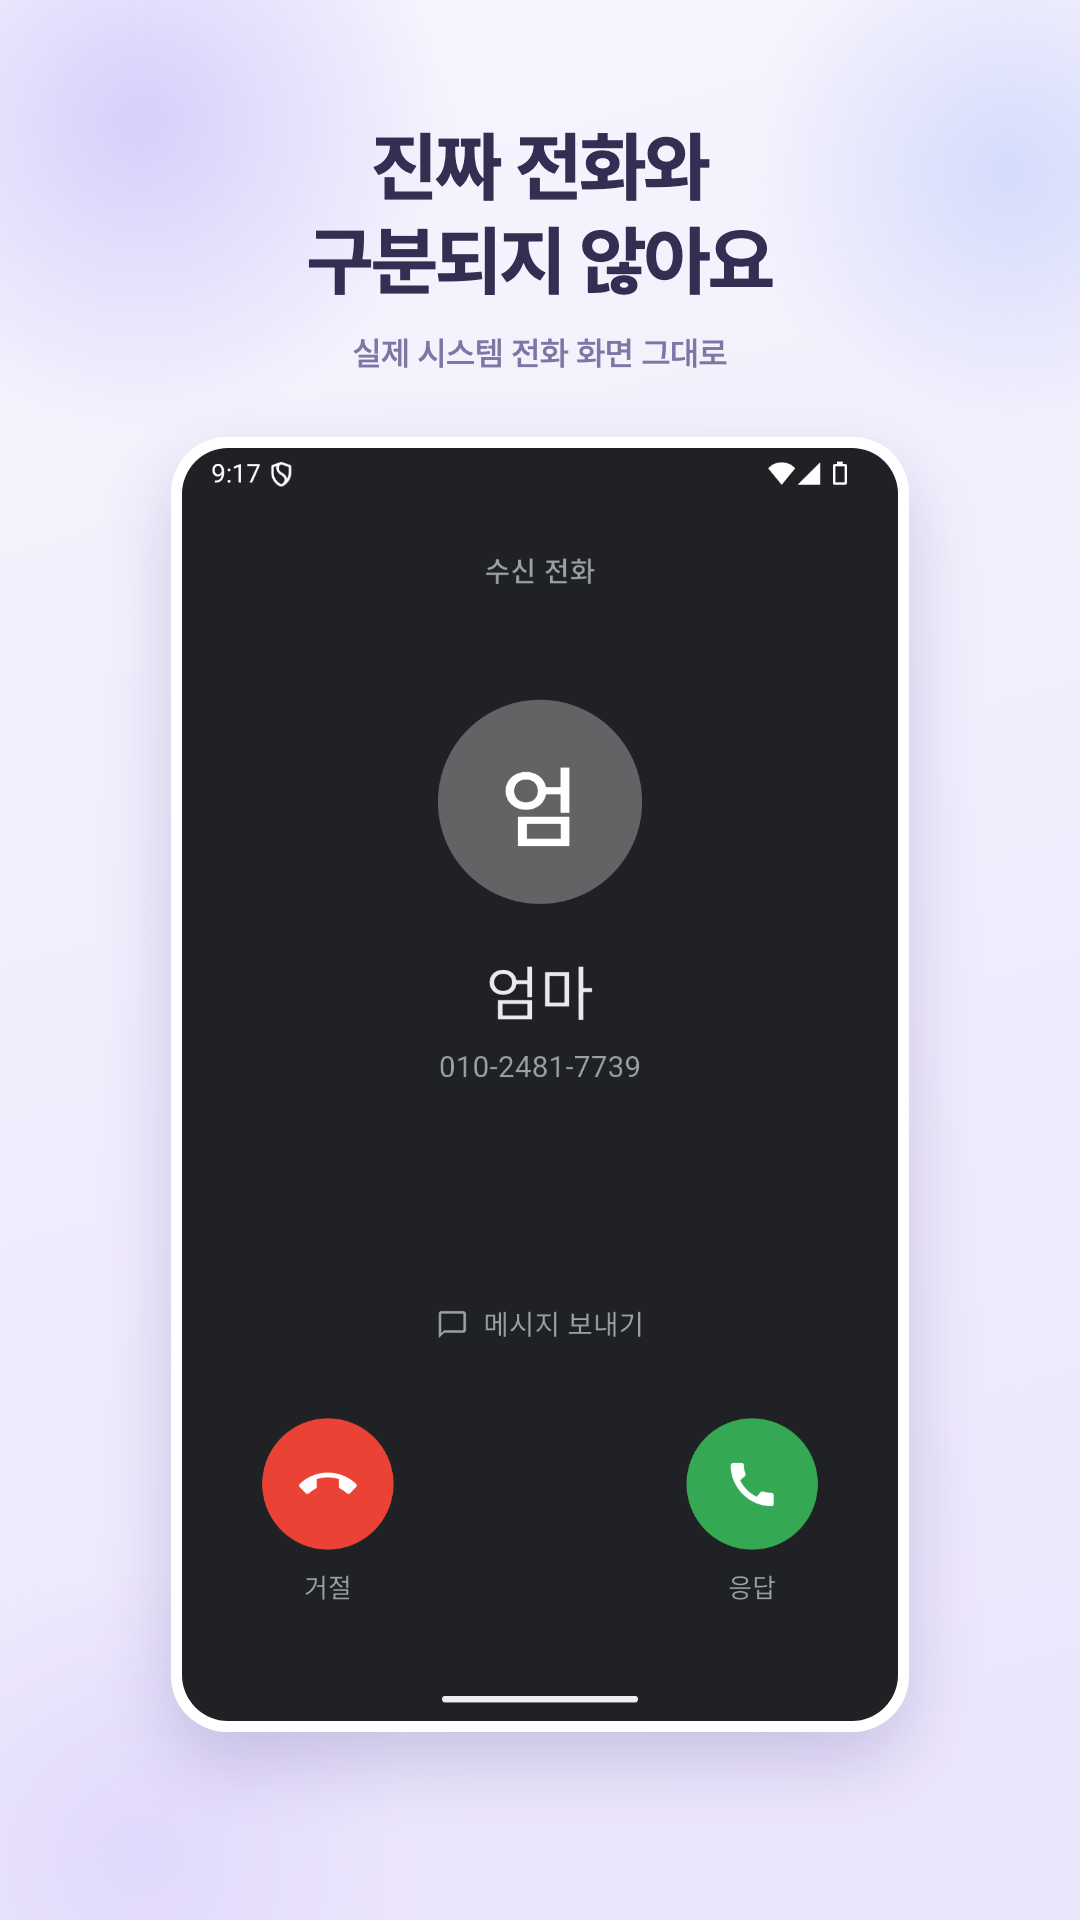
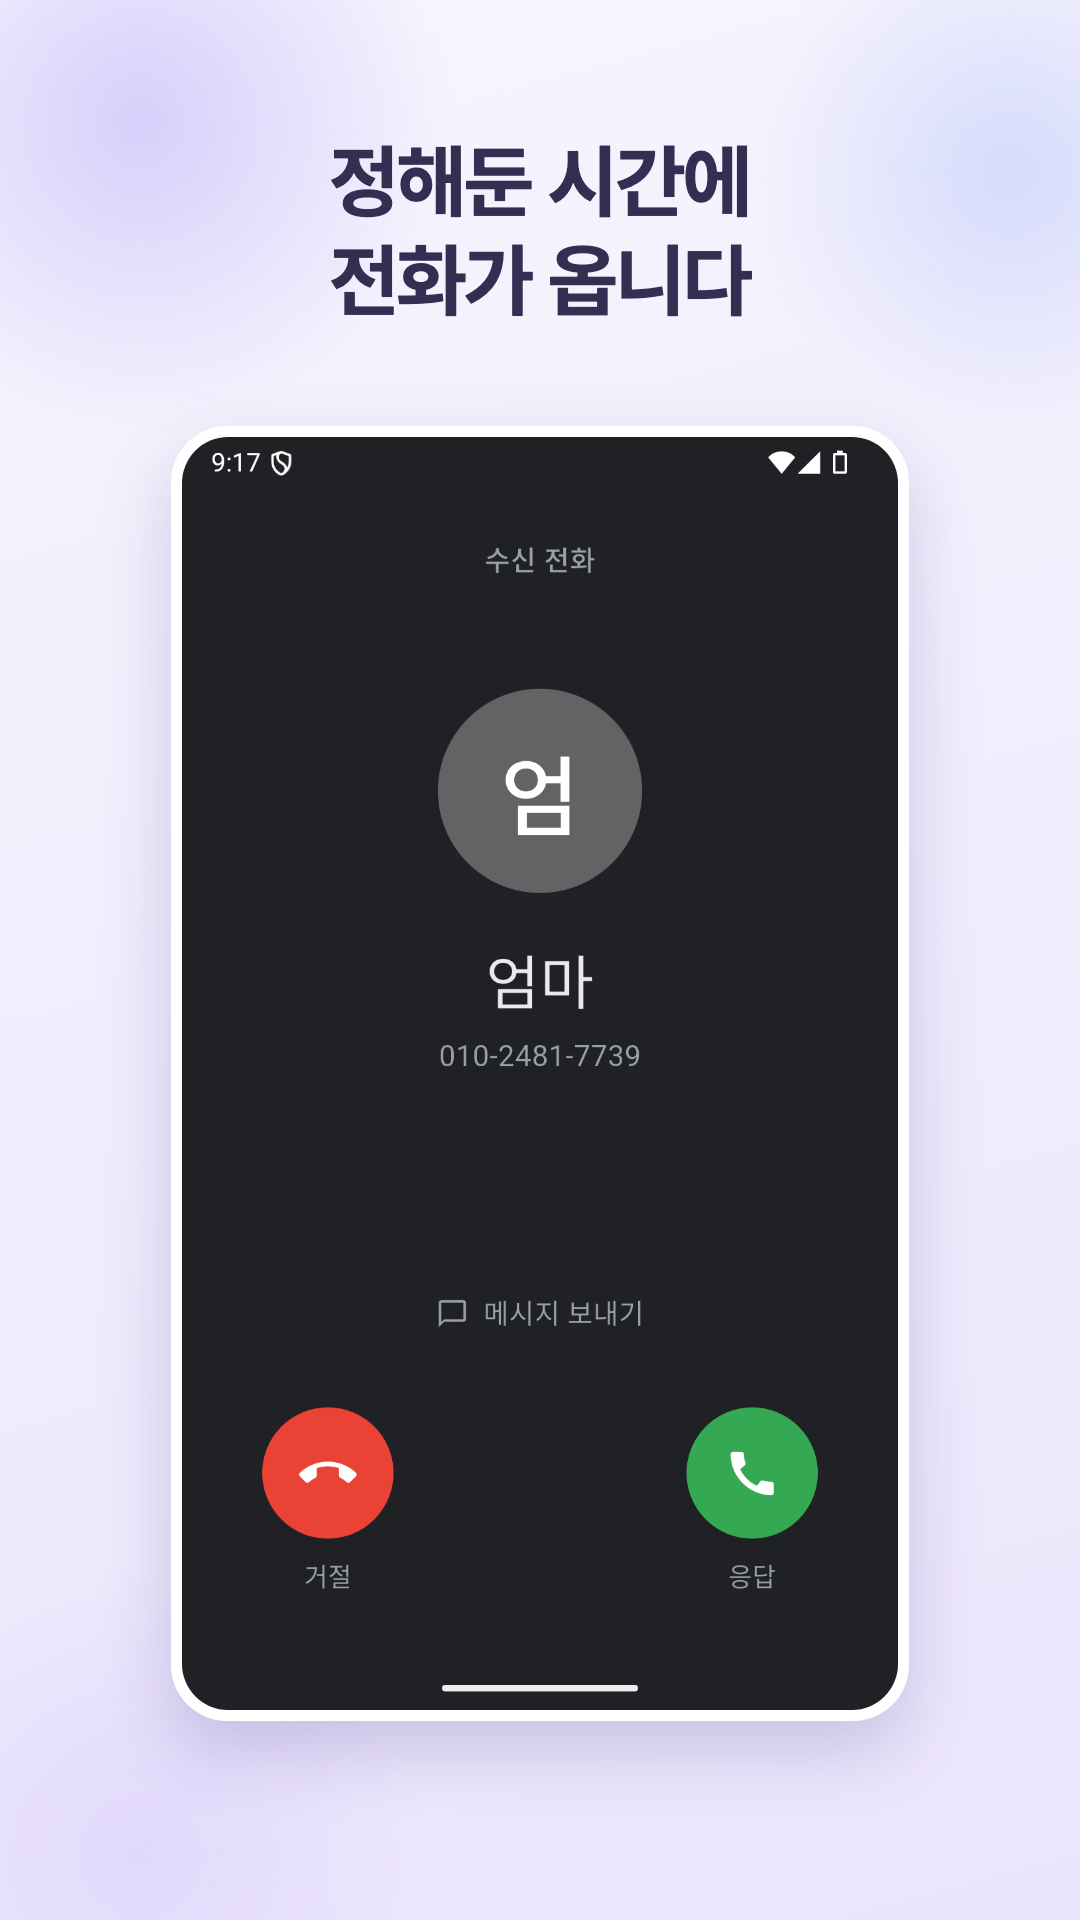
chore(store): 스토어 스크린샷을 3장으로 줄이고 카피를 정제
기능마다 한 장씩 붙여 6장을 만들었는데, 그건 스토어 카피가 아니라 제품
소개서다. 사용자는 키패드가 진짜 같아서 설치하는 게 아니라 가짜 전화가
필요해서 설치한다.

핵심 세 장(수신 / 홈 / 통화 중)만 남기고 기능 설명 부제를 없앴다. 문구도
"진짜와 구분되지 않아요" 같은 주장이나 "일어날 이유가 생겼어요" 같은 이야기
만들기 대신 담백한 서술문으로 통일했다. 피처 그래픽 부제의 "진짜 같은"도
같은 이유로 뺐다.

README 에 카피 원칙을 남겨 다음에 다시 늘어나지 않게 한다.

Claude-Session: https://claude.ai/code/session_01Xd13e87dZ3qLH2mDkvbXYi

diff --git a/store/play/src/build.py b/store/play/src/build.py
@@ -20,30 +20,19 @@ CHROME = "/Applications/Google Chrome.app/Contents/MacOS/Google Chrome"
 PHONE_W, PHONE_H = 1080, 1920      # 폰 스크린샷 (9:16)
 FEATURE_W, FEATURE_H = 1024, 500   # 피처 그래픽 (정확히 이 크기여야 함)
 
-# (원본, 출력 파일명, 큰 카피, 작은 카피)
+# (원본, 출력 파일명, 카피)
+#
+# 기능을 하나씩 설명하지 않는다. 사용자는 키패드가 진짜 같아서 설치하는 게
+# 아니라 곤란한 자리에서 빠져나오고 싶어서 설치한다. 각 장은 기능이 아니라
+# 그 순간을 말한다.
 SCREENS = [
-    ("p_incoming.png", "01-incoming",
-     "진짜 전화와<br>구분되지 않아요",
-     "실제 시스템 전화 화면 그대로"),
-    ("p_home.png", "02-home",
-     "이름과 시간만<br>정하면 끝",
-     "누가, 몇 초 뒤에 — 두 가지면 충분해요"),
-    ("p_active.png", "03-active",
-     "받은 뒤에도<br>자연스럽게",
-     "통화 시간, 음소거, 스피커까지 그대로"),
-    ("p_countdown.png", "04-countdown",
-     "예약한 시간에<br>정확히 울려요",
-     "지금 · 10초 · 30초 · 1분 · 3분"),
-    ("p_ringsheet.png", "05-ringtone",
-     "소리 없이<br>진동만으로",
-     "조용해야 하는 자리를 위해"),
-    ("p_keypad.png", "06-keypad",
-     "키패드까지<br>실제 그대로",
-     "눌러보면 숫자판이 올라와요"),
+    ("p_incoming.png", "01-incoming", "정해둔 시간에<br>전화가 옵니다"),
+    ("p_home.png", "02-home", "이름과 시간만<br>정하면 됩니다"),
+    ("p_active.png", "03-active", "받아도<br>자연스럽습니다"),
 ]
 
 
-def screenshot_html(raw: str, big: str, small: str) -> str:
+def screenshot_html(raw: str, big: str) -> str:
     """스토어 스크린샷 한 장의 HTML."""
     return f"""<!doctype html><html><head><meta charset="utf-8">
 <link rel="stylesheet" href="_base.css">
@@ -57,12 +46,11 @@ def screenshot_html(raw: str, big: str, small: str) -> str:
              background:radial-gradient(circle,rgba(196,181,253,.28),transparent 70%); }}
   .wrap {{ position:relative; height:100%;
            display:flex; flex-direction:column; align-items:center; }}
-  h1 {{ margin:120px 0 0; font-size:76px; line-height:1.24; font-weight:700;
-        color:#332E52; text-align:center; letter-spacing:-1.5px; }}
-  p  {{ margin:26px 0 0; font-size:33px; font-weight:500;
-        color:#7E77A6; text-align:center; }}
+  h1 {{ margin:132px 0 0; font-size:80px; line-height:1.24; font-weight:700;
+        color:#332E52; text-align:center; letter-spacing:-1.8px;
+        word-break:keep-all; }}
   /* 흰 베젤 + 부드러운 그림자로 기기처럼 보이게 */
-  .device {{ margin-top:64px; width:716px; padding:11px; background:#fff;
+  .device {{ margin-top:96px; width:716px; padding:11px; background:#fff;
              border-radius:56px; box-shadow:0 30px 70px rgba(74,58,140,.22); }}
   .device img {{ display:block; width:100%; border-radius:46px; }}
 </style></head><body>
@@ -70,7 +58,6 @@ def screenshot_html(raw: str, big: str, small: str) -> str:
 <div class="blob a"></div><div class="blob b"></div><div class="blob c"></div>
 <div class="wrap">
   <h1>{big}</h1>
-  <p>{small}</p>
   <div class="device"><img src="raw/{raw}"></div>
 </div></body></html>"""
 
@@ -104,7 +91,7 @@ FEATURE_HTML = f"""<!doctype html><html><head><meta charset="utf-8">
 <div class="wrap">
   <div class="copy">
     <h1>말 꺼내기 어려울 땐,<br>먼저 일어나도 괜찮아요</h1>
-    <p>정해둔 시간에 걸려오는, 진짜 같은 전화 한 통</p>
+    <p>정해둔 시간에 걸려오는 전화</p>
   </div>
   <div class="art">
     <div class="orb"><div class="eyes"><div class="eye"></div><div class="eye"></div></div></div>
@@ -133,12 +120,11 @@ def render(html: str, name: str, w: int, h: int) -> Path:
 
 def main() -> None:
     made = []
-    for raw, name, big, small in SCREENS:
+    for raw, name, big in SCREENS:
         if not (SRC / "raw" / raw).exists():
             print(f"  건너뜀 (원본 없음): {raw}")
             continue
-        made.append(render(screenshot_html(raw, big, small),
-                           name, PHONE_W, PHONE_H))
+        made.append(render(screenshot_html(raw, big), name, PHONE_W, PHONE_H))
     made.append(render(FEATURE_HTML, "feature-graphic", FEATURE_W, FEATURE_H))
 
     for f in made:
